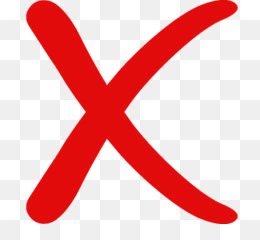
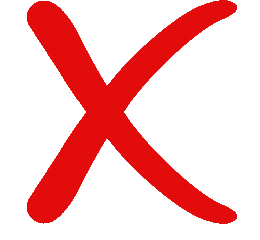
Refactored AlbumEntry

diff --git a/src/ui/entries/u_album_entry.cpp b/src/ui/entries/u_album_entry.cpp
@@ -1,41 +1,55 @@
 #include "u_album_entry.hpp"
 
-const int AlbumEntry::kEntryWidth    = 700;
-const int AlbumEntry::kButtonWidth   = 100;
-const int AlbumEntry::kHeight        = 66;
-const int AlbumEntry::kActualHeight  = 80;
-const int AlbumEntry::kGap           = 30;
-const float AlbumEntry::kHeightRatio = 0.7;
+const int   AlbumEntry::kEntryWidth    = 700;
+const int   AlbumEntry::kButtonWidth   = 100;
+const int   AlbumEntry::kHeight        = 66;
+const int   AlbumEntry::kActualHeight  = 80;
+const int   AlbumEntry::kGap           = 30;
+const int   AlbumEntry::kSpriteOffset  = 8;
+const float AlbumEntry::kHeightRatio   = 0.7;
 
-AlbumEntry::AlbumEntry(int posX, int posY, sf::Color normal, sf::Color hovered,
-               SharedPtr<PAlbum> alb_ptr, int number, 
-               UniquePtr<Command> c_ptr, SharedPtr<PngSprite> png_ptr) :
+const std::pair<int, int> AlbumEntry::kColBtnPos = {0, kHeight * (1. - kHeightRatio) / 2};
+const std::pair<int, int> AlbumEntry::kDelBtnPos = {kEntryWidth + kGap, kHeight * (1. - kHeightRatio) / 2};
+
+const std::pair<int, int> AlbumEntry::kColBtnSize = {kEntryWidth, kHeight * kHeightRatio};
+const std::pair<int, int> AlbumEntry::kDelBtnSize = {kHeight * kHeightRatio, kHeight * kHeightRatio};
+
+AlbumEntry::AlbumEntry(SharedPtr<PAlbum> alb_ptr, int number) :
     album_ptr_(alb_ptr),
-    del_btn_(kHeight * kHeightRatio, kHeight * kHeightRatio, 
-             std::move(std::make_unique<CDeleteAlbum>(alb_ptr)), normal, hovered, png_ptr),
-    col_btn_(kEntryWidth,            kHeight * kHeightRatio, 
-             std::move(c_ptr), normal, hovered),
+    del_btn_sprite_("data/img/red_cross.png"),  /// kHeight * kHeightRatio, kHeight * kHeightRatio, 
+    col_btn_(kColBtnSize.first, kColBtnSize.second, 
+             std::make_unique<CShowSpecificAlbum>(alb_ptr), 
+             Constants::kSideBtnIdle, Constants::kSideBtnHover),
+    del_btn_(kDelBtnSize.first, kDelBtnSize.second,
+             std::make_unique<CDeleteAlbum>(alb_ptr), 
+             Constants::kSideBtnIdle, Constants::kSideBtnHover),
     number_(number)
 {
-    col_btn_.SetPosition({0, kHeight * (1. - kHeightRatio) / 2});
-    del_btn_.SetPosition({kEntryWidth + kGap, kHeight * (1. - kHeightRatio) / 2});
+    del_btn_sprite_.SetPosition(kDelBtnPos.first + kSpriteOffset, kDelBtnPos.second + kSpriteOffset);
+    del_btn_sprite_.SetSize(kDelBtnSize.first - kSpriteOffset * 2, kDelBtnSize.second - kSpriteOffset * 2);
+
+    col_btn_.SetPosition(kColBtnPos);
+
+    del_btn_.SetPosition(kDelBtnPos);
 }
 
     
 void AlbumEntry::Update(int off_x, int off_y)
 {
-    del_btn_.Update(off_x + pos_x, off_y + pos_y);
+    del_btn_sprite_.Update(off_x + pos_x, off_y + pos_y);
     col_btn_.Update(off_x + pos_x, off_y + pos_y);
 }
 
 void AlbumEntry::Render(sf::RenderWindow& rw, int off_x, int off_y)
 {
+/// The button that changes hover color for when clicking the album
     col_btn_.Render(rw, off_x + pos_x, off_y + pos_y);
 
     const int off_height = col_btn_.GetPosition().second + 9;
     const int txt_height = col_btn_.GetHeight() * 0.7;
     const int txtLen     = kEntryWidth - 12;
 
+/// Render the number and album name
     TextBox txt_nr(12, off_height, 30, txt_height,
                    0, std::to_string(number_));
     txt_nr.SetColor(Constants::kGreen);
@@ -47,7 +61,25 @@ void AlbumEntry::Render(sf::RenderWindow& rw, int off_x, int off_y)
     
     txt_nr.Render(rw, off_x + pos_x, off_y + pos_y);
     album_name.Render(rw, off_x + pos_x, off_y + pos_y);
+
     del_btn_.Render(rw, off_x + pos_x, off_y + pos_y);
+    del_btn_sprite_.Render(rw, off_x + pos_x, off_y + pos_y);
+
+/// Render the underlying button with changing color on hover
+//     auto under_del_btn = sf::RectangleShape({del_btn_sprite_.GetWidth(), del_btn_sprite_.GetHeight()});
+//     under_del_btn.setPosition({del_btn_sprite_.GetPosition().first, del_btn_sprite_.GetPosition().second});
+
+//     if (del_btn_.ThisButtonHovered(off_x, off_y))
+//         under_del_btn.setFillColor(Constants::kSideBtnHover);
+//     else
+//         under_del_btn.setFillColor(Constants::kSideBtnIdle);
+    
+//     under_del_btn.move(off_x, off_y);
+
+//     rw.draw(under_del_btn);
+
+// /// Render the sprite for the button
+//     del_btn_sprite_.Render(rw, off_x + pos_x, off_y + pos_y);
 }
 
 int AlbumEntry::GetWidth() const

diff --git a/inc/ui/entries/u_album_entry.hpp b/inc/ui/entries/u_album_entry.hpp
@@ -2,6 +2,7 @@
 
 #include "u_png_color_button.hpp"
 #include "c_delete_album.hpp"
+#include "c_show_specific_album.hpp"
 #include "u_text_box.hpp"
 
 class AlbumEntry : public UiElement
@@ -9,8 +10,9 @@ class AlbumEntry : public UiElement
 private:
     SharedPtr<PAlbum> album_ptr_;
     
-    PngColorButton del_btn_;
+    PngSprite      del_btn_sprite_;
     ColorButton    col_btn_;
+    ColorButton    del_btn_;
 
     int number_;
 
@@ -25,12 +27,17 @@ private:
     static const int   kHeight;
     static const int   kActualHeight;
     static const int   kGap;
+    static const int   kSpriteOffset;
     static const float kHeightRatio;
 
+    static const std::pair<int, int> kColBtnPos;
+    static const std::pair<int, int> kDelBtnPos;
+
+    static const std::pair<int, int> kColBtnSize;
+    static const std::pair<int, int> kDelBtnSize;
+
 public:
-    AlbumEntry(int posX, int posY, sf::Color normal, sf::Color hovered,
-               SharedPtr<PAlbum> album_ptr, int number, 
-               UniquePtr<Command> c_ptr, SharedPtr<PngSprite> png_ptr);
+    AlbumEntry(SharedPtr<PAlbum> album_ptr, int number);
     
     void Update(int off_x, int off_y) override;
 

diff --git a/src/views/v_views.cpp b/src/views/v_views.cpp
@@ -169,11 +169,7 @@ void ViewsMain::UpdateAlbums(SharedPtr<ScrollableList> l_ptr, const std::vector<
     int contor = 0;
     for (auto a_ptr : album_list) {
         auto entry_ptr = std::make_unique<AlbumEntry>(
-            kListWidthSimple, kEntryHeight, 
-            Constants::kSideBtnIdle, Constants::kSideBtnHover,
-            a_ptr, ++contor,
-            std::make_unique<CShowSpecificAlbum>(a_ptr),
-            std::make_shared<PngSprite>("data/img/red_cross.png")
+            a_ptr, ++contor
         );
         l_ptr->AddUiElement(std::move(entry_ptr));
     }

diff --git a/inc/ui/u_button.hpp b/inc/ui/u_button.hpp
@@ -19,9 +19,9 @@ protected:
 
     bool ThisButtonClicked(int off_x, int off_y) const;
 
+public:
     bool ThisButtonHovered(int off_x, int off_y) const;
 
-public:
     Button(int szX, int szY, UniquePtr<Command> cPtr);
 
     void Update(int off_x, int off_y);
